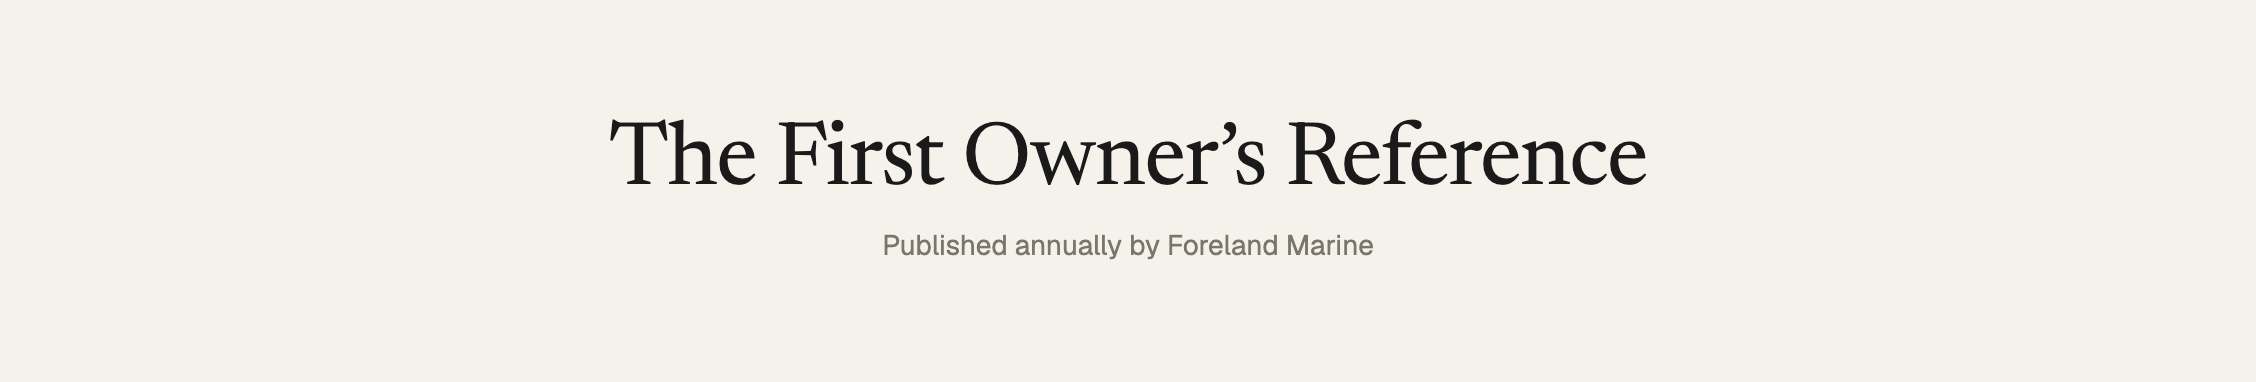
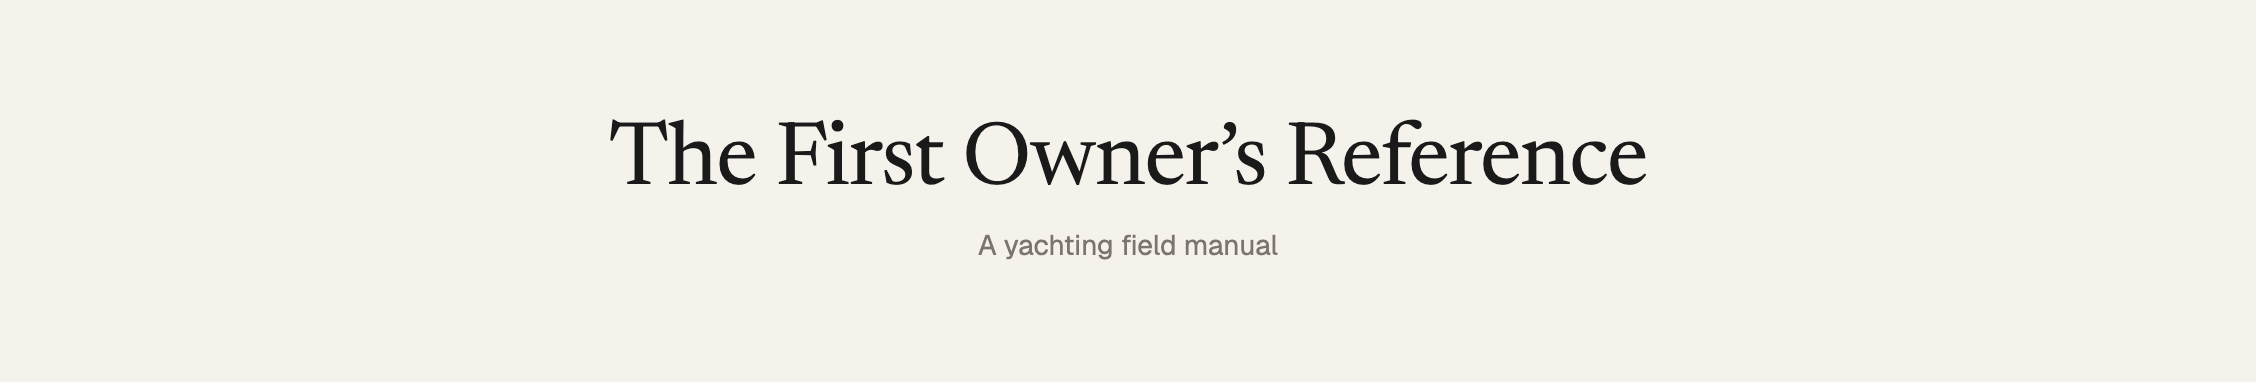
LinkedIn cover line: A yachting field manual

Changed region(s): [[0.3723, 0.6047, 0.6206, 0.6911]]

diff --git a/docs/linkedin/cover.html b/docs/linkedin/cover.html
@@ -5,4 +5,4 @@ html,body{margin:0;width:1128px;height:191px;background:#f5f2ec;color:#1a1a1a;ov
 .wrap{position:absolute;inset:0;display:flex;flex-direction:column;align-items:center;justify-content:center;gap:10px}
 h1{margin:0;font-family:Newsreader,serif;font-weight:400;font-size:44px;letter-spacing:-0.01em}
 p{margin:0;font-family:Geist,sans-serif;font-size:14px;color:#7a756d}
-</style></head><body><div class="wrap"><h1>The First Owner’s Reference</h1><p>Published annually by Foreland Marine</p></div></body></html>
+</style></head><body><div class="wrap"><h1>The First Owner’s Reference</h1><p>A yachting field manual</p></div></body></html>
